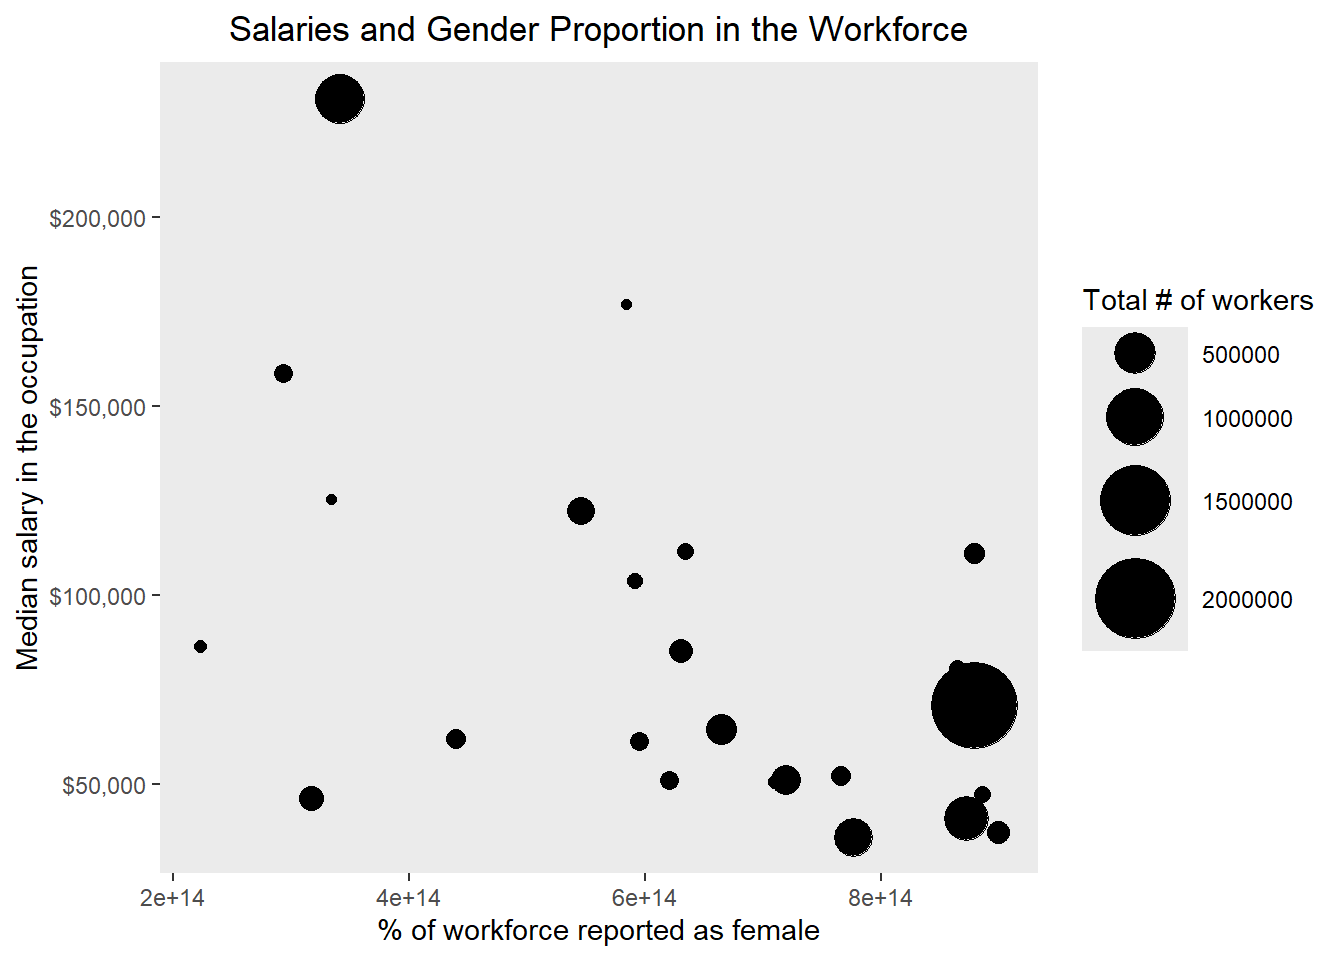
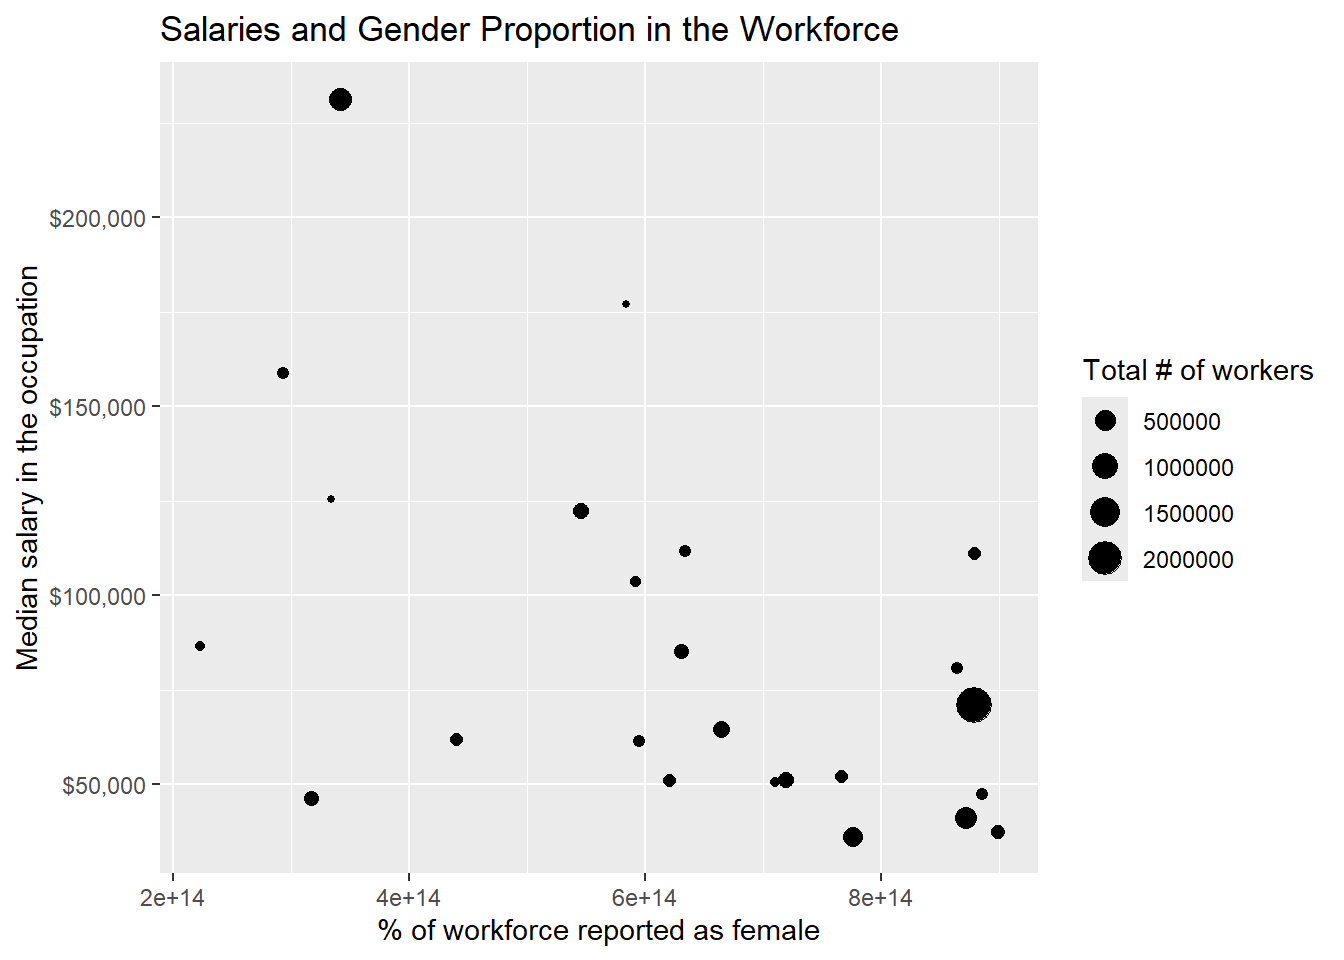
8th

diff --git a/_site/posts/A2-part3/index.html b/_site/posts/A2-part3/index.html
@@ -560,19 +560,46 @@ $ wage_percent_of_male  &lt;dbl&gt; 1.051582e+15, 1.032144e+15, 9.682062e+14, 9.
 <span id="cb15-6"><a href="#cb15-6" aria-hidden="true" tabindex="-1"></a>  <span class="fu">labs</span>(<span class="at">x =</span> <span class="st">"% of workforce reported as female"</span>, </span>
 <span id="cb15-7"><a href="#cb15-7" aria-hidden="true" tabindex="-1"></a>       <span class="at">y =</span> <span class="st">"Median salary in the occupation"</span>, </span>
 <span id="cb15-8"><a href="#cb15-8" aria-hidden="true" tabindex="-1"></a>       <span class="at">size =</span> <span class="st">"Total # of workers"</span>, </span>
-<span id="cb15-9"><a href="#cb15-9" aria-hidden="true" tabindex="-1"></a>       <span class="at">title =</span> <span class="st">"Salaries and Gender Proportion in the Workforce"</span>) <span class="sc">+</span></span>
-<span id="cb15-10"><a href="#cb15-10" aria-hidden="true" tabindex="-1"></a></span>
-<span id="cb15-11"><a href="#cb15-11" aria-hidden="true" tabindex="-1"></a>  <span class="fu">scale_size_area</span>(<span class="at">max_size =</span> <span class="dv">15</span>) <span class="sc">+</span></span>
-<span id="cb15-12"><a href="#cb15-12" aria-hidden="true" tabindex="-1"></a>  <span class="fu">theme</span>(<span class="at">plot.title =</span> <span class="fu">element_text</span>(<span class="at">hjust =</span> <span class="fl">0.5</span>), </span>
-<span id="cb15-13"><a href="#cb15-13" aria-hidden="true" tabindex="-1"></a>        <span class="at">panel.grid.major =</span> <span class="fu">element_blank</span>(), </span>
-<span id="cb15-14"><a href="#cb15-14" aria-hidden="true" tabindex="-1"></a>        <span class="at">panel.grid.minor =</span> <span class="fu">element_blank</span>()) <span class="sc">+</span> </span>
-<span id="cb15-15"><a href="#cb15-15" aria-hidden="true" tabindex="-1"></a>  <span class="fu">scale_y_continuous</span>(<span class="at">labels =</span> scales<span class="sc">::</span><span class="fu">dollar_format</span>())</span></code><button title="Copy to Clipboard" class="code-copy-button"><i class="bi"></i></button></pre></div>
+<span id="cb15-9"><a href="#cb15-9" aria-hidden="true" tabindex="-1"></a>       <span class="at">title =</span> <span class="st">"Salaries and Gender Proportion in the Workforce"</span>) <span class="sc">+</span> <span class="fu">scale_y_continuous</span>(<span class="at">labels =</span> scales<span class="sc">::</span><span class="fu">dollar_format</span>()) </span></code><button title="Copy to Clipboard" class="code-copy-button"><i class="bi"></i></button></pre></div>
 <div class="cell-output-display">
 <div>
 <figure class="figure">
 <p><img src="index_files/figure-html/unnamed-chunk-5-1.png" class="img-fluid figure-img" width="672"></p>
 </figure>
 </div>
+</div>
+<div class="sourceCode cell-code" id="cb16"><pre class="sourceCode r code-with-copy"><code class="sourceCode r"><span id="cb16-1"><a href="#cb16-1" aria-hidden="true" tabindex="-1"></a><span class="co">#for getting the dollar sign</span></span>
+<span id="cb16-2"><a href="#cb16-2" aria-hidden="true" tabindex="-1"></a></span>
+<span id="cb16-3"><a href="#cb16-3" aria-hidden="true" tabindex="-1"></a><span class="co">#I couldn't figure out a way to code the y-axis to show the median salaries as percentages instead of in scientific notation. Instead of getting the usual salary figures, I ended up with numbers like 2e+14, 4e+14, 6e+14, and 8e+14, which are super confusing. </span></span></code><button title="Copy to Clipboard" class="code-copy-button"><i class="bi"></i></button></pre></div>
+</div>
+<div class="callout callout-style-default callout-note callout-titled">
+<div class="callout-header d-flex align-content-center">
+<div class="callout-icon-container">
+<i class="callout-icon"></i>
+</div>
+<div class="callout-title-container flex-fill">
+Note
+</div>
+</div>
+<div class="callout-body-container callout-body">
+<ul>
+<li><p><strong>Target Variable:</strong> Median salary for men in the occupation (<code>total_earnings_male</code>)</p></li>
+<li><p><strong>Predictor Variable:</strong> Percentage of workforce reported as female (<code>percent_female</code>)</p></li>
+</ul>
+</div>
+</div>
+<div class="callout callout-style-default callout-note callout-titled">
+<div class="callout-header d-flex align-content-center">
+<div class="callout-icon-container">
+<i class="callout-icon"></i>
+</div>
+<div class="callout-title-container flex-fill">
+Note
+</div>
+</div>
+<div class="callout-body-container callout-body">
+<p>The graph is a scatter plot that shows the relationship between the percentage of women in the workforce and the median salary for men in various occupations. Each dot represents a different job, and the size of the dot tells how many workers are in that job overall. The x-axis shows the percentage of female workers in that job, and the y-axis shows the median salary for male workers, with a dollar sign.</p>
+<p>From looking at the graph, it is seen, if a job has a high percentage of female workers and men are earning less salaries, it shows some kind of inequality. And if a job has a high percentage of female workers and men are also earning good salaries, then the job pays them well regardless of their gender.</p>
 </div>
 </div>
 

diff --git a/_site/index.html b/_site/index.html
@@ -255,7 +255,7 @@ Gayatri Jadhav
 </a>
 </div>
 </div>
-<div class="quarto-post image-right" data-index="2" data-listing-file-modified-sort="1729405585414" data-listing-reading-time-sort="1" data-listing-word-count-sort="145">
+<div class="quarto-post image-right" data-index="2" data-listing-file-modified-sort="1729423936774" data-listing-reading-time-sort="2" data-listing-word-count-sort="312">
 <div class="thumbnail">
 <p><a href="./posts/A2-part3/index.html" class="no-external"></a></p><a href="./posts/A2-part3/index.html" class="no-external">
 <p class="card-img-top"><img src="posts\A2-part3\index_files\figure-html\unnamed-chunk-5-1.png"  class="thumbnail-image card-img"/></p>
